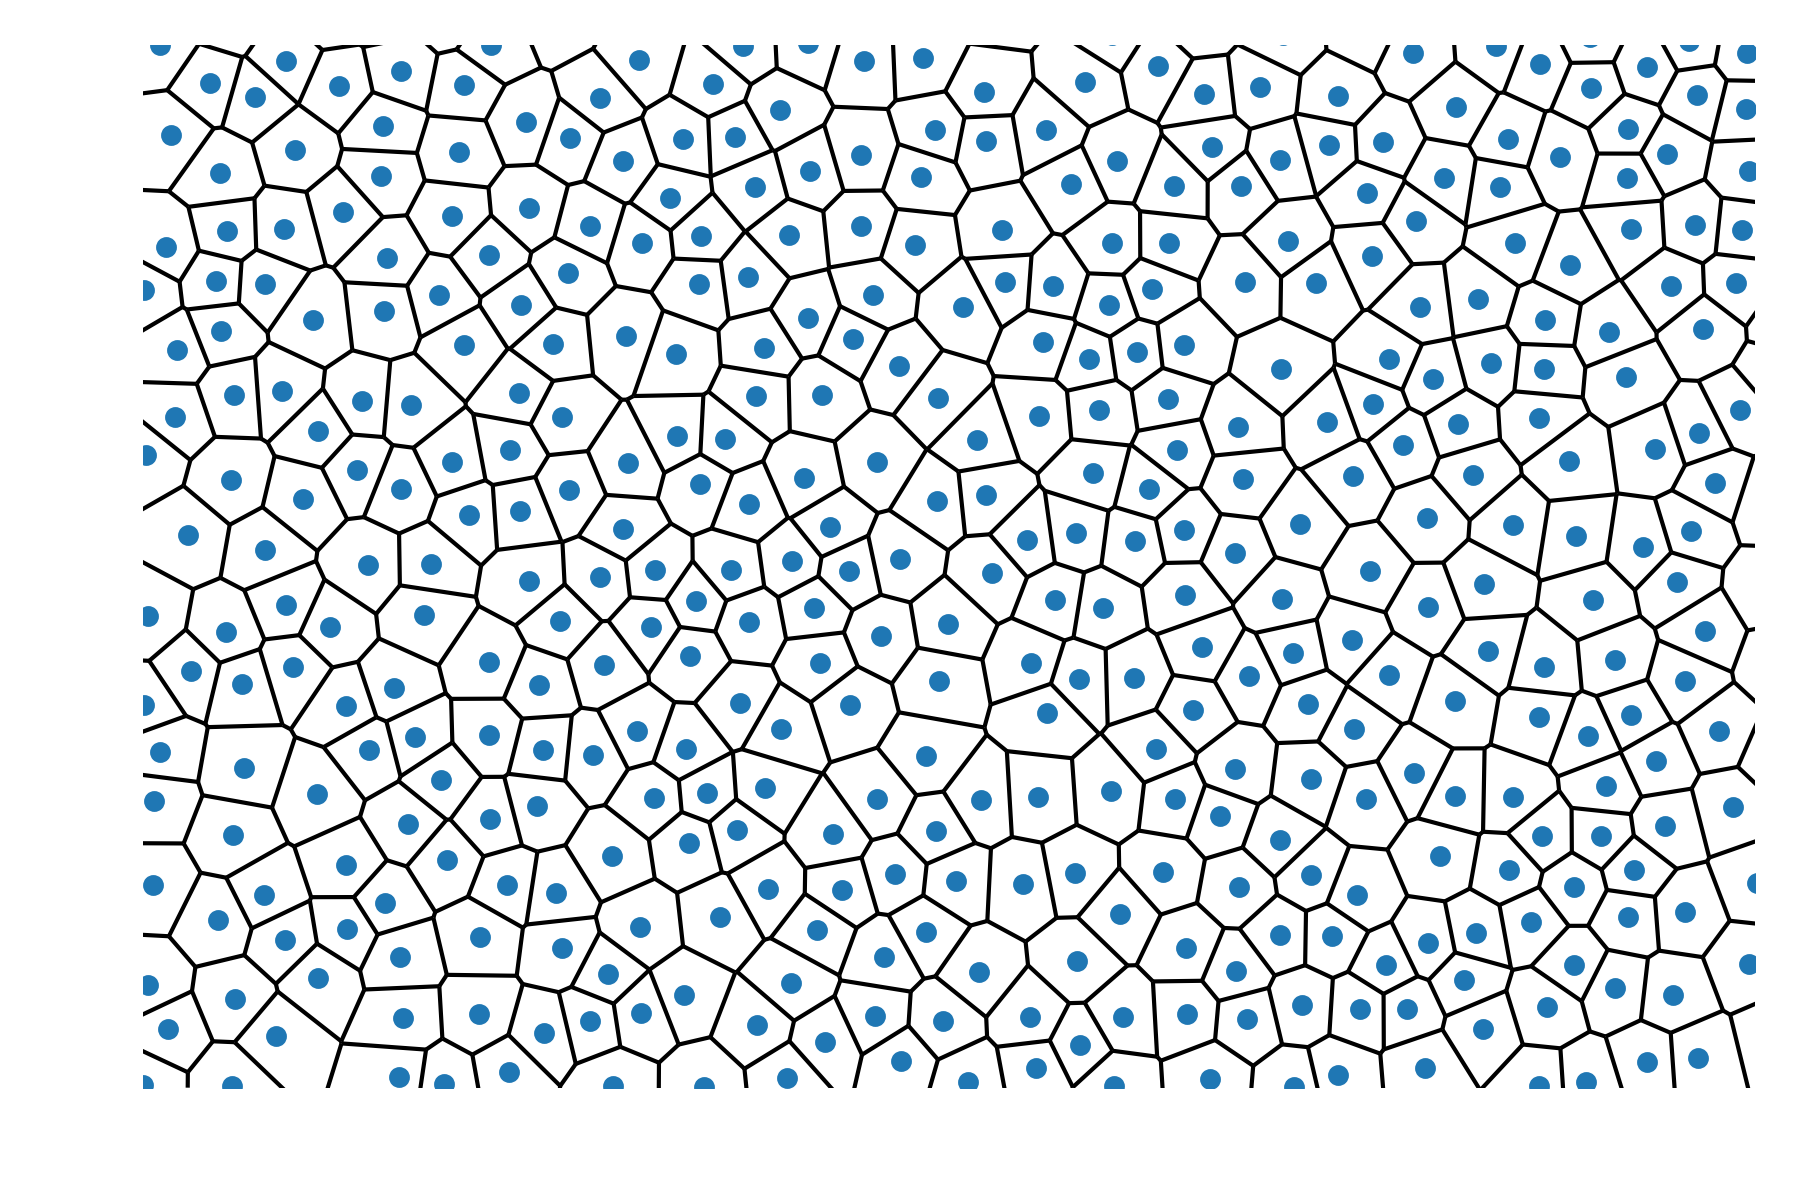
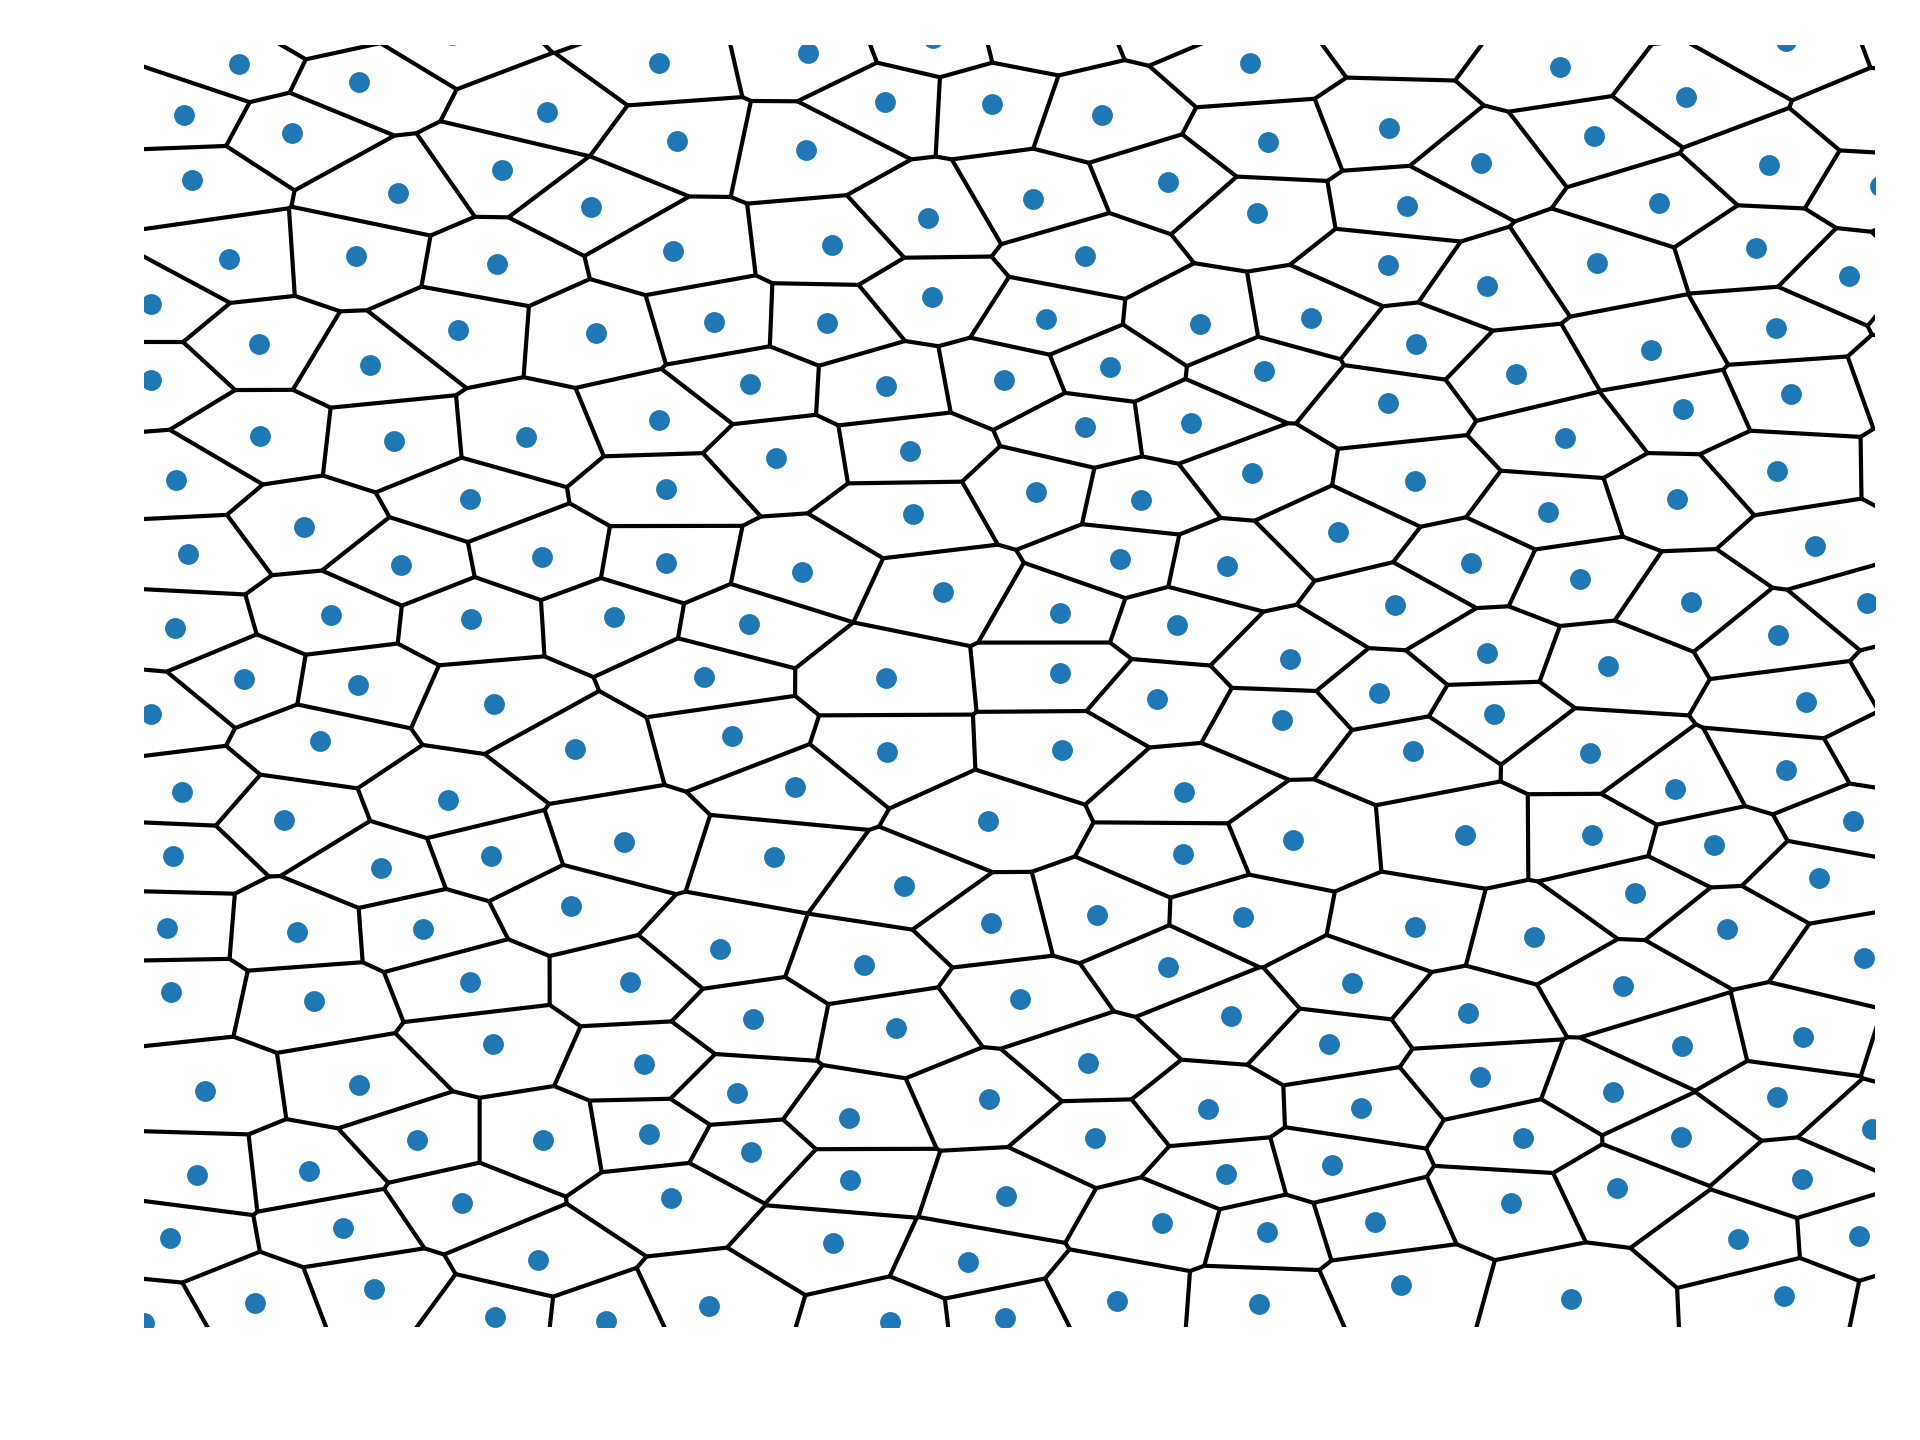
Add tests for generating glomeruli and GrCs

Changed region(s): [[0.0622, 0.0308, 0.9956, 0.925]]

diff --git a/pop_gen_test.py b/pop_gen_test.py
@@ -1,16 +1,18 @@
 # %%
-%load_ext autoreload
-%autoreload 2
+# %load_ext autoreload
+# %autoreload 2
 import numpy as np
 from neuron import h
 import pds_plots as ppl
 import matplotlib.pyplot as plt
 from pop_generation.mf_generation import Bridson_sampling_2d
 
-h.load_file('test_merge/set3005/Parameters.hoc')
-
+h.load_file('test/set3005/Parameters.hoc')
 
 # %%
+
+h.MFxrange = h.MFyrange = 700
+
 def compute_mf_params(h):
     Transverse_range = h.MFyrange
     Horizontal_range = h.MFxrange
@@ -24,11 +26,11 @@ def compute_mf_params(h):
     Yinstantiate = 84 + 40 * box_fac  # 474+40x*box_fac
 
     n_mf = int((Transverse_range + (2 * Xinstantiate)) * (Horizontal_range + (2 * Yinstantiate)) * MFdensity * 1e-6)
+    print('N MF = {}'.format(n_mf))
     return ((Horizontal_range, Transverse_range), n_mf)
 
 mf_box, n_mf = compute_mf_params(h)
 
-# %%
 spacing_mf = 14
 mf_points = Bridson_sampling_2d(mf_box, spacing_mf, n_mf, True)
 
@@ -38,8 +40,8 @@ ppl.plot_mf_2(mf_points, mf_box)
 
 # %%
 def compute_goc_params(h):
-    Transverse_range = h.GoCyrange
-    Horizontal_range = h.GoCxrange
+    Transverse_range = h.MFyrange
+    Horizontal_range = h.MFxrange
     Vertical_range = h.GoCzrange
 
     Volume = Transverse_range * Horizontal_range * Vertical_range
@@ -77,7 +79,7 @@ print(n_goc, ' ', goc_points.shape[0])
 
 #%%
 def compute_glo_params(h):
-    Transverse_range = h.MFyrange//3
+    Transverse_range = h.MFyrange
     Horizontal_range = h.MFxrange
     Vertical_range = h.GLdepth
     Volume = Transverse_range * Horizontal_range * Vertical_range
@@ -88,13 +90,60 @@ def compute_glo_params(h):
     Xinstantiate = 64 + 40  # 297+40
     Yinstantiate = 84 + 40 * box_fac  # 474+40x*box_fac
 
-    n_mf = int((Transverse_range + (2 * Xinstantiate)) * (Horizontal_range + (2 * Yinstantiate)) * MFdensity * 1e-6)
-    return ((Horizontal_range, Transverse_range), n_mf)
+    d_glo = 6.6 * 1e5 #(Billings et al., 2014)
+    n_glo = int(d_glo * Volume * 1e-9)
+    print("N of Glomeruli = {}".format(n_glo))
+
+    return ((Horizontal_range, Transverse_range//3, Vertical_range), n_glo)
 
 #Glomerulus (Rosettes)
-glo_points = Bridson_sampling_second((Horizontal_range//3, Transverse_range, Vertical_range), spacing_glo, n_glo, True, goc_points)
+from pop_generation.second_generation import Bridson_sampling_second
 
-    #Since glomerulus is stretched for Horizontal section, we will generate coordinates in small area at first, and then multiply it with 3. (Billings et al., 2014)
-glo_points[:, 0] = glo_points[:, 0]*3
-glo_points = glo_points+np.random.normal(0, 1, size=(len(glo_points), 3))
-np.savetxt('glo_coordinates.txt', glo_points)
+globox, n_glo = compute_glo_params(h)
+spacing_glo = 6.6-1 #(Billings et al., 2014) Since glomeruli is elipsoid shape, I recalculated based on the spatial occupancy of glomeruli and its density. Also, I subtract 1 cuz I will give Gaussian noise
+
+glo_points = Bridson_sampling_second(globox, spacing_glo, n_glo, True, goc_points)
+glo_points[:, 1] = glo_points[:, 1]*3 # Since glomerulus is stretched for Horizontal section, we will generate coordinates in small area at first, and then multiply it with 3. (Billings et al., 2014)
+
+glo_points = glo_points+np.random.normal(0, 0.5, size=(len(glo_points), 3))
+
+# %%
+glo_points[:,0].max()
+glo_points[:,1].max()
+glo_points[:,2].max()
+
+# %%
+ppl.plot_glo(glo_points, goc_box, np.array([0, 10])+100, 2.7)
+
+# %%
+ppl.plot_goc_glo((goc_points, 15), (glo_points, 2.7), goc_box, np.array([0, 5])+50)
+
+# %%
+from pop_generation.third_generation import Bridson_sampling_third
+
+def compute_grc_params(h):
+    Transverse_range = h.MFyrange
+    Horizontal_range = h.MFxrange
+    Vertical_range = h.GLdepth
+    Volume = Transverse_range * Horizontal_range * Vertical_range
+
+    MFdensity = h.MFdensity
+
+    box_fac = 2.5
+    Xinstantiate = 64 + 40  # 297+40
+    Yinstantiate = 84 + 40 * box_fac  # 474+40x*box_fac
+
+    d_grc = 1.9 * 1e6 #(Billings et al., 2014)
+    n_grc = int(d_grc * Volume * 1e-9)
+
+    print("N of GrC = {}".format(n_grc))
+
+    return ((Horizontal_range, Transverse_range, Vertical_range), n_grc)
+
+
+spacing_grc = 6-1 # (Billings et al., 2014) I subtract 1 because I will give Gaussian noise
+
+grcbox, n_grc = compute_grc_params(h)
+
+grc_points = Bridson_sampling_third(grcbox, spacing_grc, n_grc, True, goc_points, glo_points)
+ppl.plot_goc_glo((goc_points, 15), (glo_points, 2.7), (glo_points, 2.5), goc_box, np.array([0, 5])+50)
